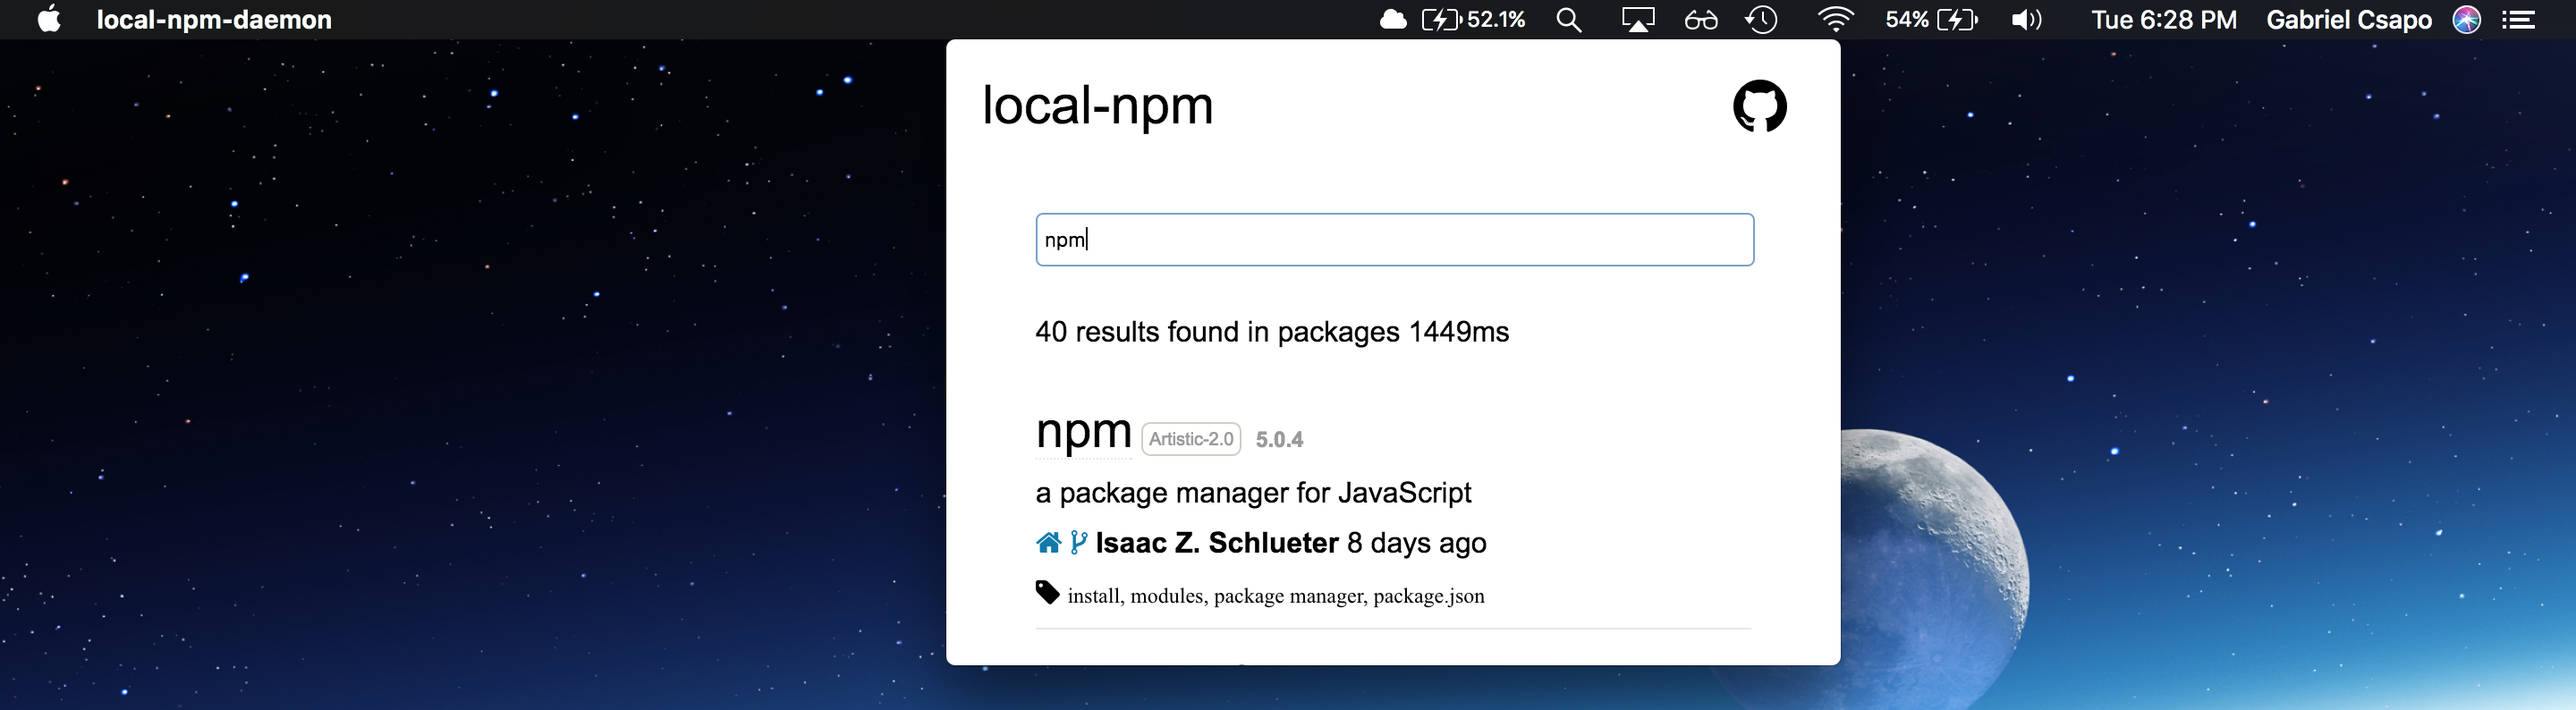
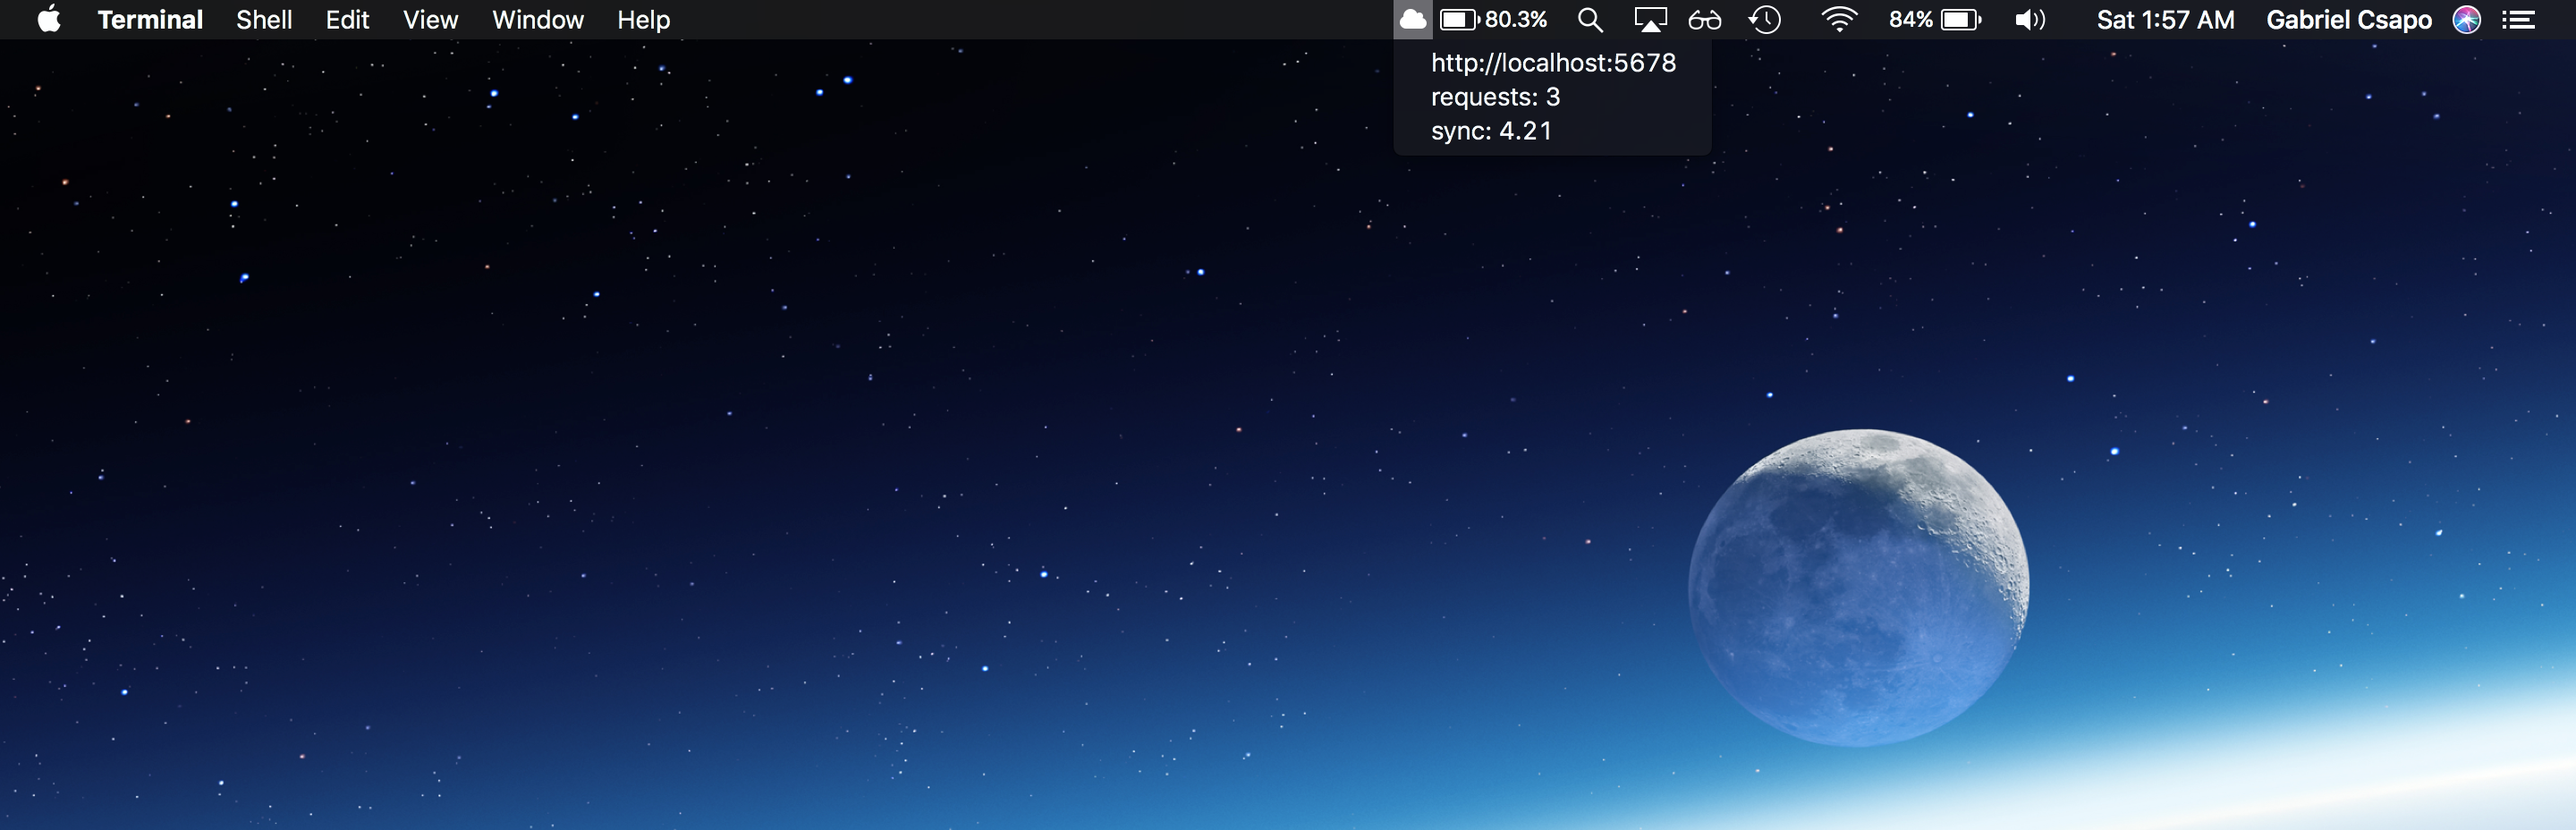
0.1.0 - show dropdown menu, instead of electron webview     - default sync interval is 60 seconds, should use less CPU

diff --git a/index.js b/index.js
@@ -1,0 +1,48 @@
+const { app, BrowserWindow, ipcMain, Tray, Menu, MenuItem, shell } = require('electron');
+
+const path = require('path')
+const local = require('local-npm');
+
+const assetsDir = path.join(__dirname, 'assets');
+const tempDir = path.join(__dirname, 'temp');
+
+const server = local({
+    directory: tempDir,
+    port: 5678,
+    pouchPort: 3040,
+    logLevel: 'error',
+    remote: 'https://registry.npmjs.org',
+    remoteSkim: 'https://replicate.npmjs.com',
+    url: 'http://127.0.0.1:5080',
+    syncInterval: 60000
+}, () => {
+    console.log('listening!');
+});
+
+let tray;
+
+app.on('ready', () => {
+  tray = new Tray(path.resolve(__dirname, './assets/cloudTemplate.png'));
+
+  var requests = 0;
+  var sync = 0;
+  function getMenu() {
+    return Menu.buildFromTemplate([
+      {label: 'http://localhost:5678', click: function() { shell.openExternal('http://localhost:5678/_browse') } },
+      {label: `requests: ${requests}`, type: 'normal'},
+      {label: `sync: ${sync}`, type: 'normal'}
+    ]);
+  }
+
+  process.on('request', (args) => {
+    ++requests;
+  })
+
+  process.on('sync', (args) => {
+    sync = args[1];
+  })
+
+  tray.on('click', function() {
+      tray.popUpContextMenu(getMenu())
+  })
+});

diff --git a/CHANGELOG.md b/CHANGELOG.md
@@ -1,3 +1,8 @@
+# 0.1.0 (07/04/2017)
+
+- show dropdown menu, instead of electron webview
+- default sync interval is 60 seconds, should use less CPU
+
 # 0.0.1 (07/04/2017)
 
 - quick and easy working example
